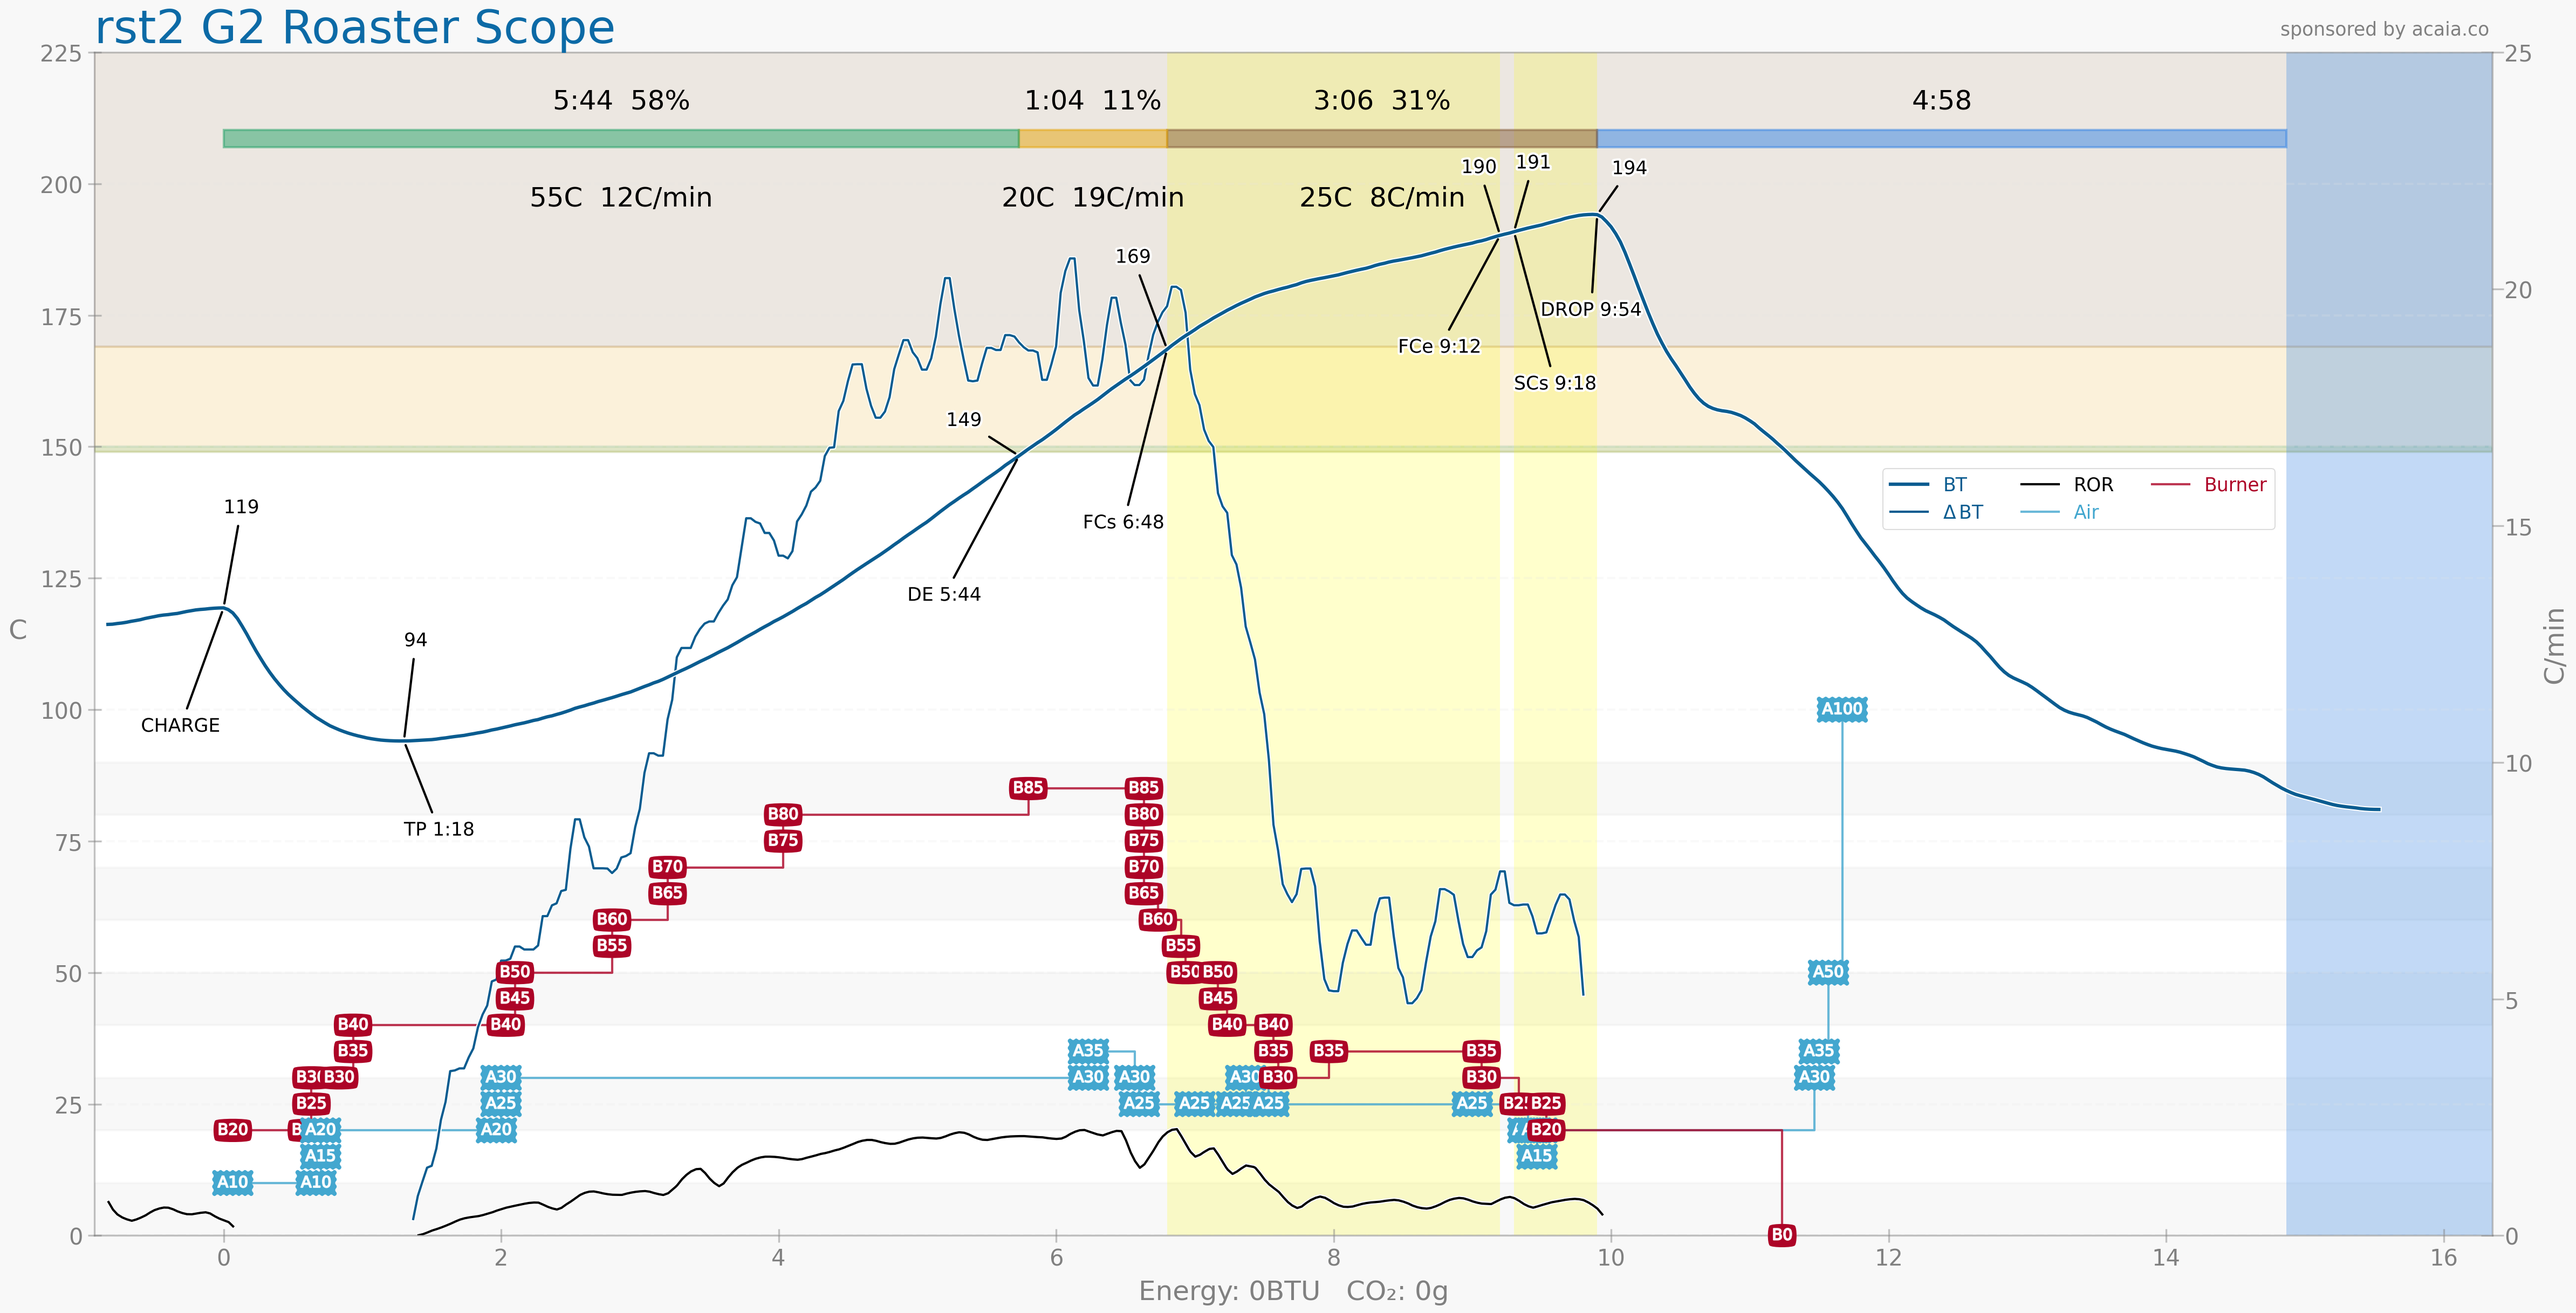
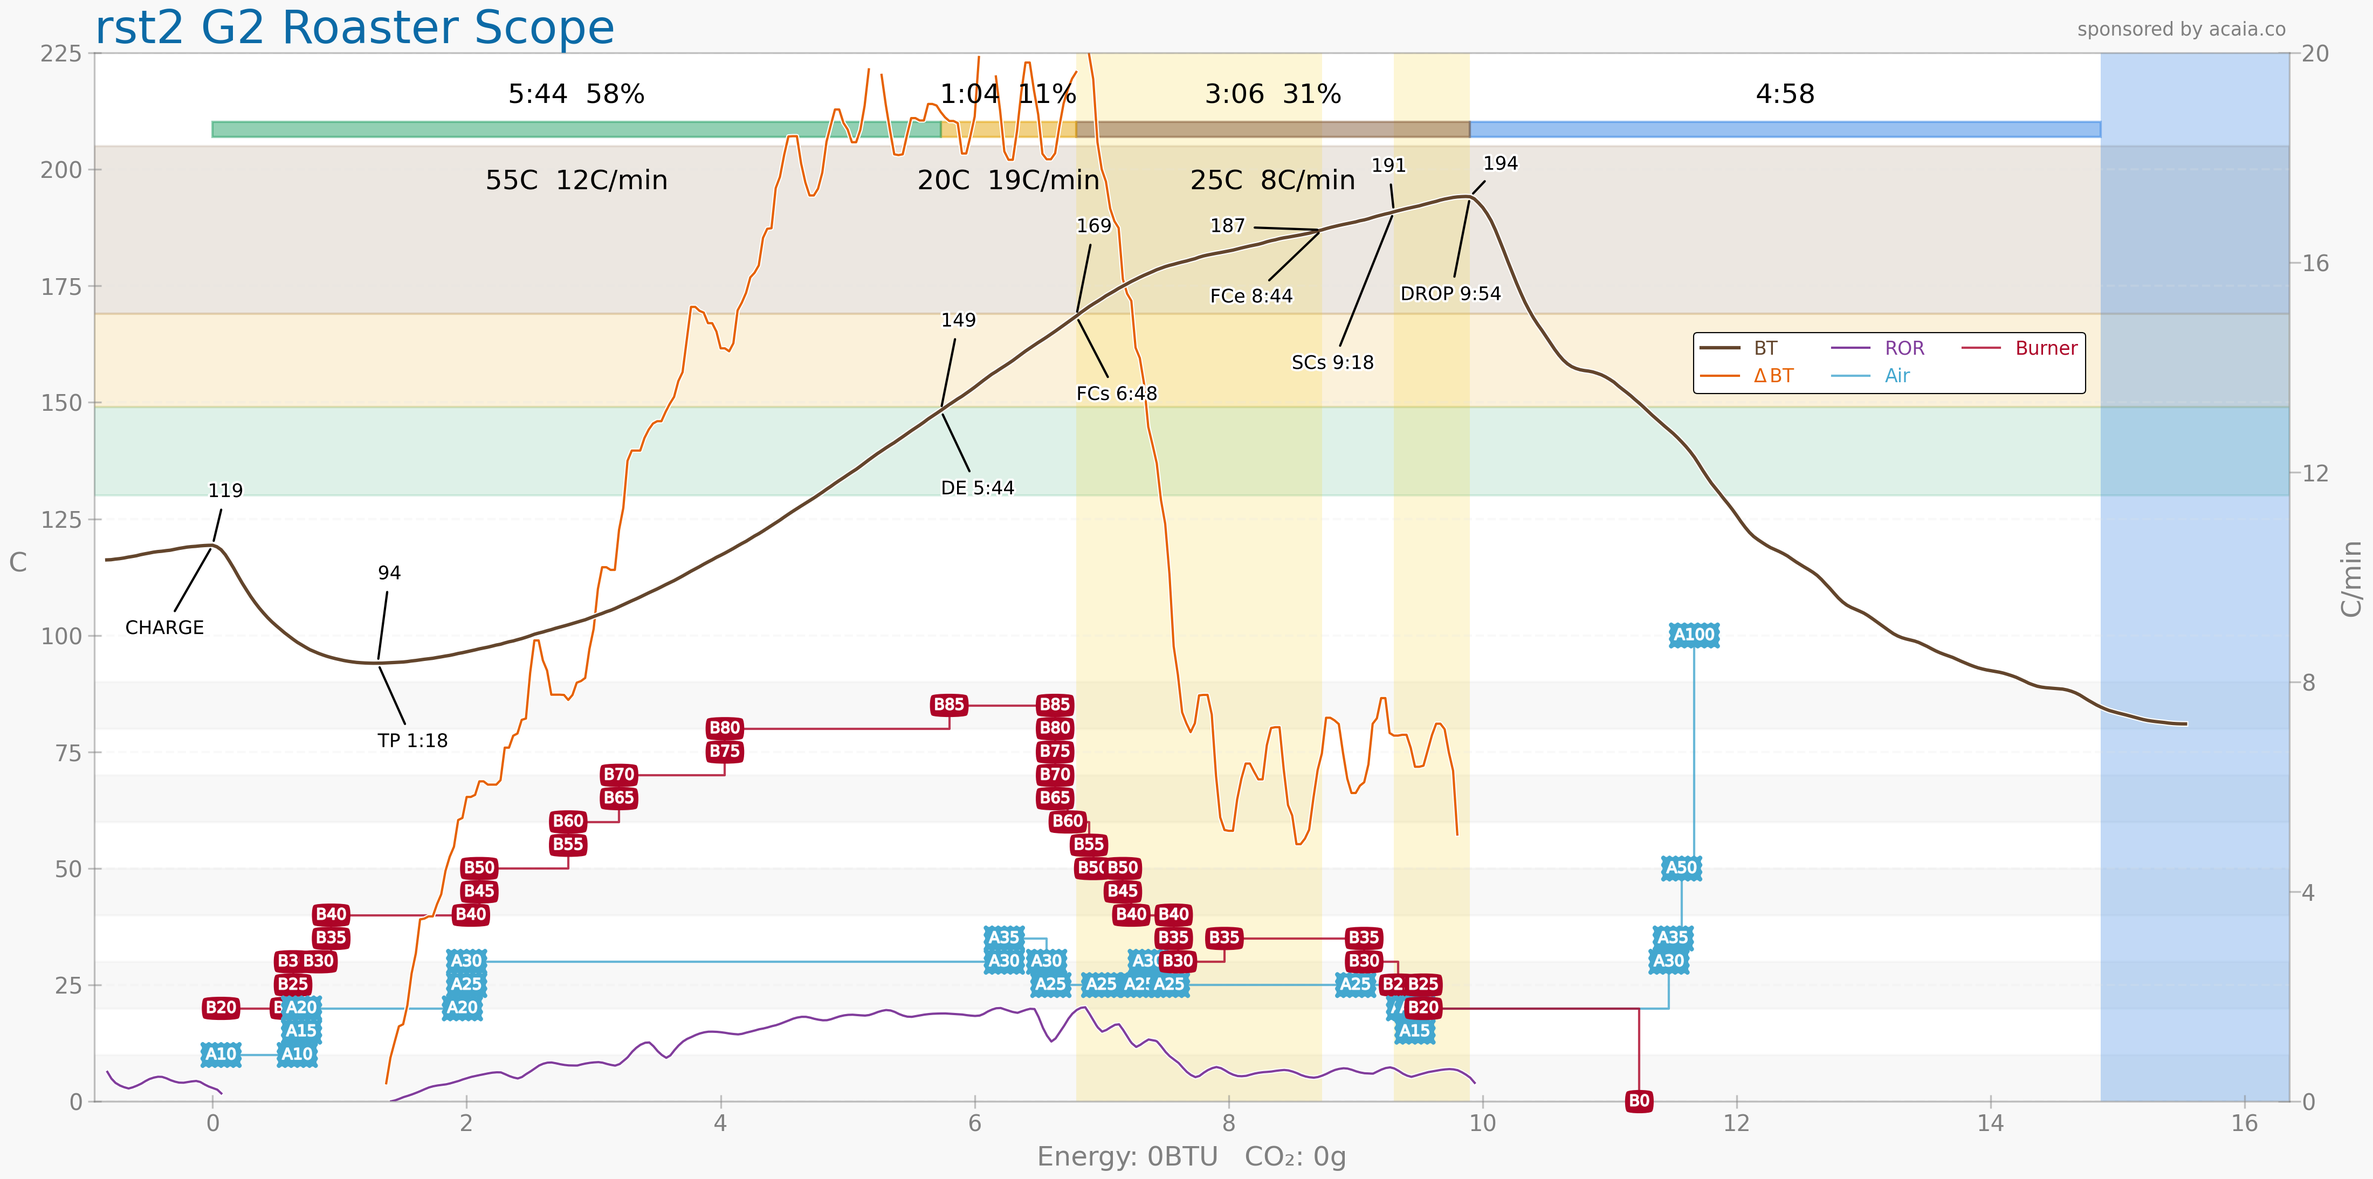
update plan; G2 cupping notes

diff --git a/notes/development.md b/notes/development.md
@@ -1,0 +1,47 @@
+
+# coffee notes on development
+
+
+ - https://shungrill.com/article/how-long-to-roast-coffee-development
+
+ - longer development makes more bitterness, bigger/stronger flavor.
+ - sugars burn 210-220c making bitter notes
+
+ - average roast time is 12:00 minutes. can range 8:00 to 20:00.
+
+ - grassy/hay flavors: to short roast time, or need longer devel time. 
+ - kenya is high acid, may *seem* under developed due to acid taste.
+
+ - Underdevelopment occurs when a bean has not been thoroughly roasted,
+   leading to grassy and hay-like flavours.
+ - Overdevelopment, can result in a burnt-sugar bitterness.
+
+
+## Notes on DTR
+
+ - https://millcityroasters.com/blogs/coffee-articles/whats-the-best-development-time-dtr-and-finish-temperature
+
+ - Dry (aim for < 50% of time)
+ - Browning, After DE, before FCS.
+ - Development - After FCS, aim for 20% - 25% time
+ - DTR: 50 / 30 / 20 => 5 min, 3 min, 2 min
+
+ - Finish temp is 70% of flavor, determines color.
+ - color shows DROP temp. partial indicator of flavor.
+
+"""
+Your finish temp is the point of greatest velocity of chemical change in the coffee. Successfully hitting your roast flavor target means discharging the coffee into the cooling tray at the exact instant your inner and outer seed development best contributes to your choice of flavor in the cup.
+
+It's not catching a speeding bullet. It’s catching an accelerating bullet.
+"""
+
+## Crash and Flick
+
+ - https://www.beanscenemag.com.au/cropster-adds-flick-prediction-to-its-ai-roasting-program/
+ - software cropster.com added AI prediction for "crash and flick" after FCS.
+ - it's the 'flick' causing Roasty flavors, not high DTR.
+
+
+
+
+

diff --git a/plan/G3-plan.md b/plan/G3-plan.md
@@ -1,0 +1,42 @@
+
+## Guatemala "G3"  Plan
+
+Batch:  150 gm
+Target: medium roast, drop 203c, 10:00 mins.
+
+Development Time Ratio (DTR):  50 / 35 / 15
+
+
+### NOTES:
+ - ROR ('C) steps: 10 / 5 / 2
+ - Fan low during preheat
+ - Fan set 30 for roast (blow out smoke, chaff)
+ - Fan set 100 at DUMP, for cooling machine
+
+### Plan:
+
+ - PREHT 0:00  ~120c  set 80..30/10       about 5 mins
+
+ - SOAK  0:00  ~120c  set 30/20  ROR=1    low heat, soak
+ - CHRG  0:00  ~120c
+
+ -       0:30  ~100c  set 70/30  ROR=7    Add heat and fan
+
+ -       1:00  ~100c  set 80/30  ROR=10   increase heat... get ROR=10
+
+ - TP    1:30  ~ 90c  set 80/30  ROR=9    (DRY Start)
+
+ -       3:00  ~130c  set 60/30  ROR=7
+
+ - DE    4:30  ~150c  set 40/30  ROR=5
+
+ - FCS  ~7:00  ~175c  set 20/30  ROR=2    (brn 10c) less heat, less fan
+
+ - FCE  ~8:00  ~185c  set 20/30  ROR=2    (brn 10c)
+
+ -       8:30                             "cool on"
+ 
+ - DROP  9:00  ~200c  set 0/100  ROR=2    (dev 25%), no heat, full fan. cool.
+
+
+

diff --git a/plan/G2-plan.md b/plan/G2-plan.md
@@ -11,23 +11,23 @@ UPDATES:
 
 Plan:
 
- - PREHT 0:00  ~120c  set 50..30/10
+ - PREHT 0:00  ~120c  set 80..40/10       about 5 mins
 
- - SOAK  0:00  ~120c  set 10/20           low heat, soak
-
+ - SOAK  0:00  ~120c  set 20/20           low heat, soak
  - CHRG  0:00  ~120c
- -       0:30  ~100c  set 30/30  ROR=25   Add heat and fan
 
- - TP    1:30  ~ 90c  set 40/30  ROR=25
+ -       0:30  ~100c  set 80/30  ROR=10   Add heat and fan
 
- -       2:00  ~150c  set 30/30  ROR=20
+ - TP    1:30  ~ 90c  set 70/30  ROR=8   (DRY Start)
 
- - DE    5:00  ~150c  set 30/30  ROR=10
+ -       2:00  ~150c  set 50/30  ROR=5
 
- - FCS   8:30  ~175c  set 20/20  ROR=5    less heat, less fan
- - FCE   x:00  ~175c  set 20/20  ROR=5
+ - DE    5:00  ~150c  set 40/30  ROR=2
+
+ - FCS   8:30  ~175c  set 20/30  ROR=2    (brn 10c) less heat, less fan
+ - FCE   x:00  ~175c  set 20/30  ROR=2
  
- - DROP 11:00  ~205c  set 20/20  ROR=5  (dev 25%)
+ - DROP 11:00  ~205c  set 20/30  ROR=2    (dev 25%)
 
 
 

diff --git a/TODO.md b/TODO.md
@@ -7,6 +7,10 @@ Things to change or improve with roaster and process:
  - Add thermocouple to roasating chamber output for ET reading.
  - Add thermocouple to cooling tray area.
 
+ - use Smart Plug to measure Power used by roaster during sessions.
+   * use shared NTP time reference.
+
+
 Artisan data:
 
  - Learn Curve design, PID settings in Artisan.
